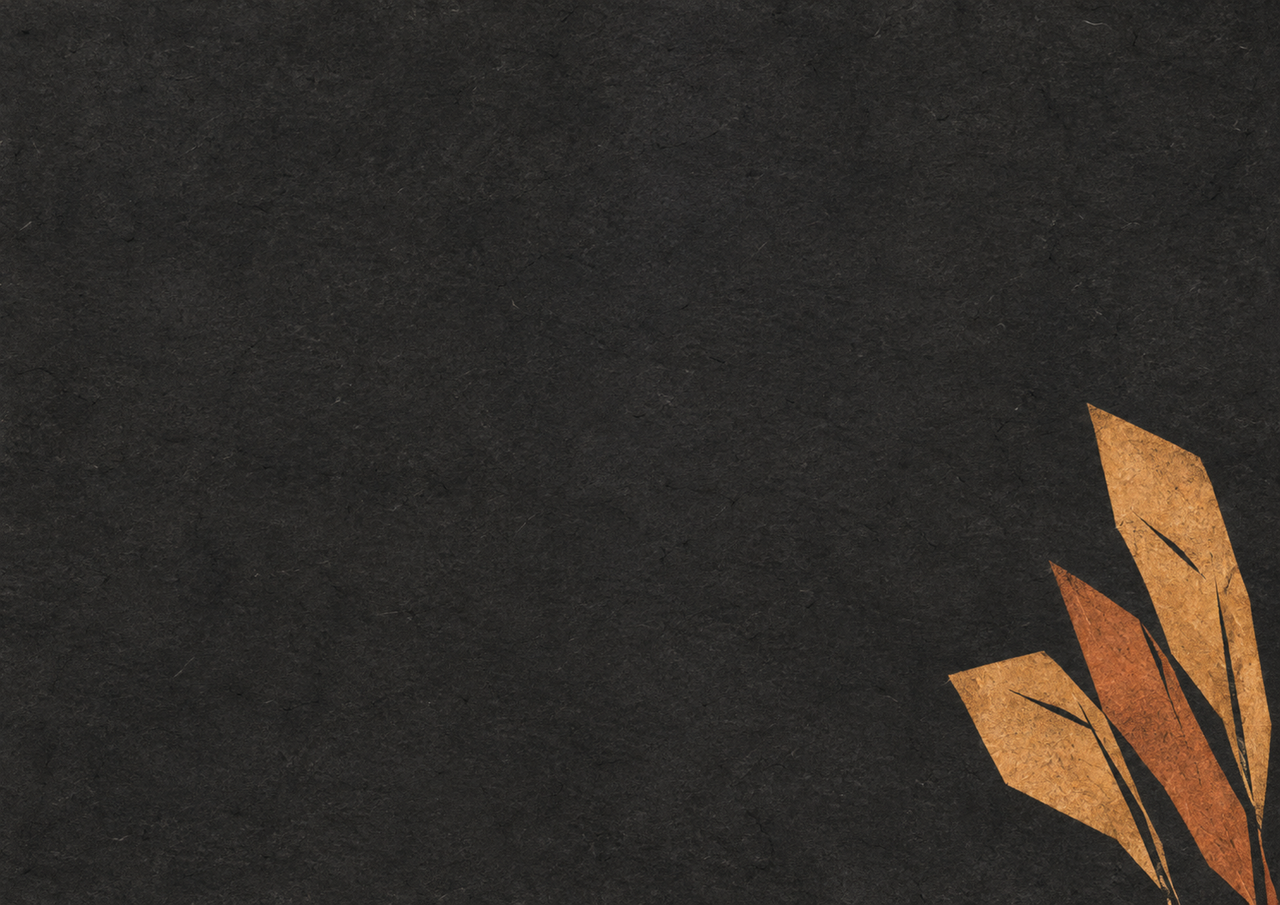
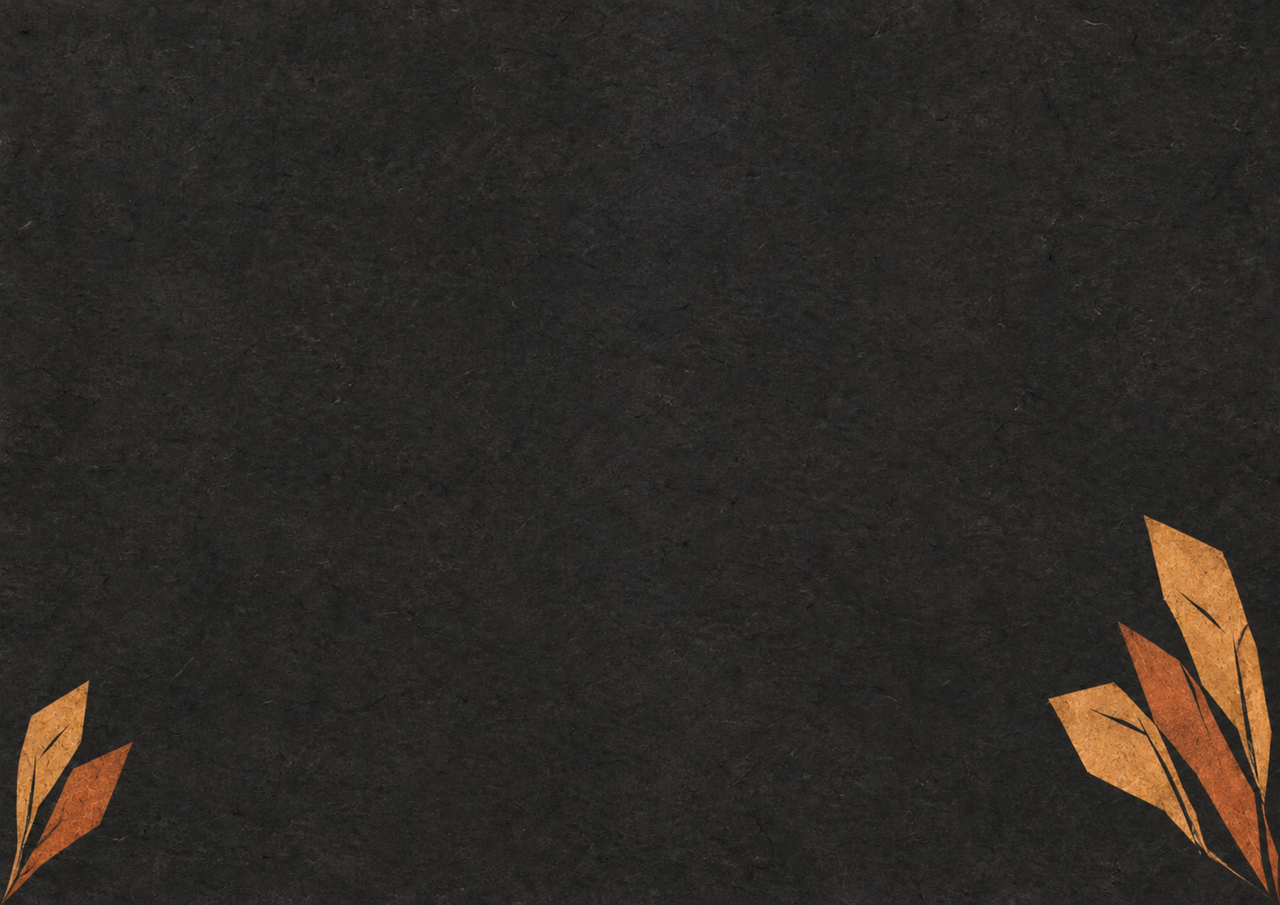
Match saved children confession emphasis and refresh approved gratitude artwork

Changed region(s): [[0.7188, 0.4331, 1.0, 1.0], [0.0, 0.7425, 0.125, 0.9901]]

diff --git a/mindex.presenter.js b/mindex.presenter.js
@@ -177,7 +177,11 @@ function presenterCanonicalLiturgicalBodyText(title = "", service = {}) {
 
 function liturgicalBodyTextHighlights(item = {}, memo = parseServiceItemMemo(item?.memo), service = {}) {
   const explicit = normalizeServiceTextHighlights(memo?.textHighlights || memo?.text_highlights || memo?.highlights);
-  if (explicit.length) return explicit;
+  if (explicit.length) {
+    const communityName = presenterCommunityConfessionCommunityName(service);
+    return liturgicalBodyTitle(item) === "공동체고백" && communityName !== "검단우리교회 공동체" && !explicit.some(highlight => highlight.text === communityName) && liturgicalBodyText(item, memo, "", service).includes(communityName)
+      ? explicit.map(highlight => highlight.text === "검단우리교회 공동체" ? { ...highlight, text: communityName } : highlight) : explicit;
+  }
   if (liturgicalBodyTitle(item) !== "공동체고백") return [];
   return [
     { text: "하나님의 거룩한 백성", bold: true },

diff --git a/mindex.design-tokens.js b/mindex.design-tokens.js
@@ -93,7 +93,7 @@ const PRESENTER_BACKGROUND_LUMINANCE = Object.freeze({
   "26-S4": 0.836764,
   "26-S5": 0.727394,
   "26-S6": 0.606454,
-  "26-감사특새": 0.022246,
+  "26-감사특새": 0.020560,
   "scripture-reading-cross": 0.009832,
 });
 // END GENERATED BACKGROUND LUMINANCE

diff --git a/tests/smoke_children_theme.py b/tests/smoke_children_theme.py
@@ -55,9 +55,12 @@ try:
     try {
      const confessionItem={id:'children-confession',label:'공동체고백',_worshipSectionKey:'community_confession'};
      const originalItem=JSON.stringify(confessionItem);
-     const childrenSlides=buildPresenterLiturgicalBodySlides(confessionItem,{},0,service,{},'');
+     const savedConfessionMemo={textHighlights:PUBLIC_COMMUNITY_CONFESSION_HIGHLIGHTS};
+     const savedConfessionBefore=JSON.stringify(savedConfessionMemo);
+     const childrenSlides=buildPresenterLiturgicalBodySlides(confessionItem,{},0,service,savedConfessionMemo,'');
      check(childrenSlides.length===1&&childrenSlides[0].text.endsWith('꿈꾸는 어린이부 공동체가 되겠습니다.'),'children closing missing');
      check(childrenSlides[0].textHighlights.some(h=>h.text.endsWith('꿈꾸는 어린이부 공동체')&&h.bold),'children closing bold missing');
+     check(JSON.stringify(savedConfessionMemo)===savedConfessionBefore,'saved confession highlights mutated');
      const mainSlides=buildPresenterLiturgicalBodySlides(confessionItem,{},0,{type_id:'sunday-main'},{},'');
      check(JSON.stringify(mainSlides.map(s=>s.text))===JSON.stringify(PRESENTER_PUBLIC_COMMUNITY_CONFESSION_CHROMAKEY_SLIDES),'third-service confession changed');
      check(JSON.stringify(confessionItem)===originalItem,'confession source mutated');
@@ -72,6 +75,7 @@ try:
      await document.fonts.ready;fitPresenterLyricText(host);
      for(const root of [childMini,childOutput]) {
       check(root.textContent.includes('꿈꾸는 어린이부 공동체가 되겠습니다.'),'children preview/output closing mismatch');
+      check(Array.from(root.querySelectorAll('.presenter-text-highlight')).some(el=>el.textContent.includes('검단우리교회 꿈꾸는 어린이부 공동체')&&Number(getComputedStyle(el).fontWeight)>=800),'saved children closing not rendered bold');
       const box=root.querySelector('.presenter-liturgical-body-lines');
       check(box.scrollWidth<=box.clientWidth+1&&box.scrollHeight<=box.clientHeight+1,'children confession overflow');
      }
